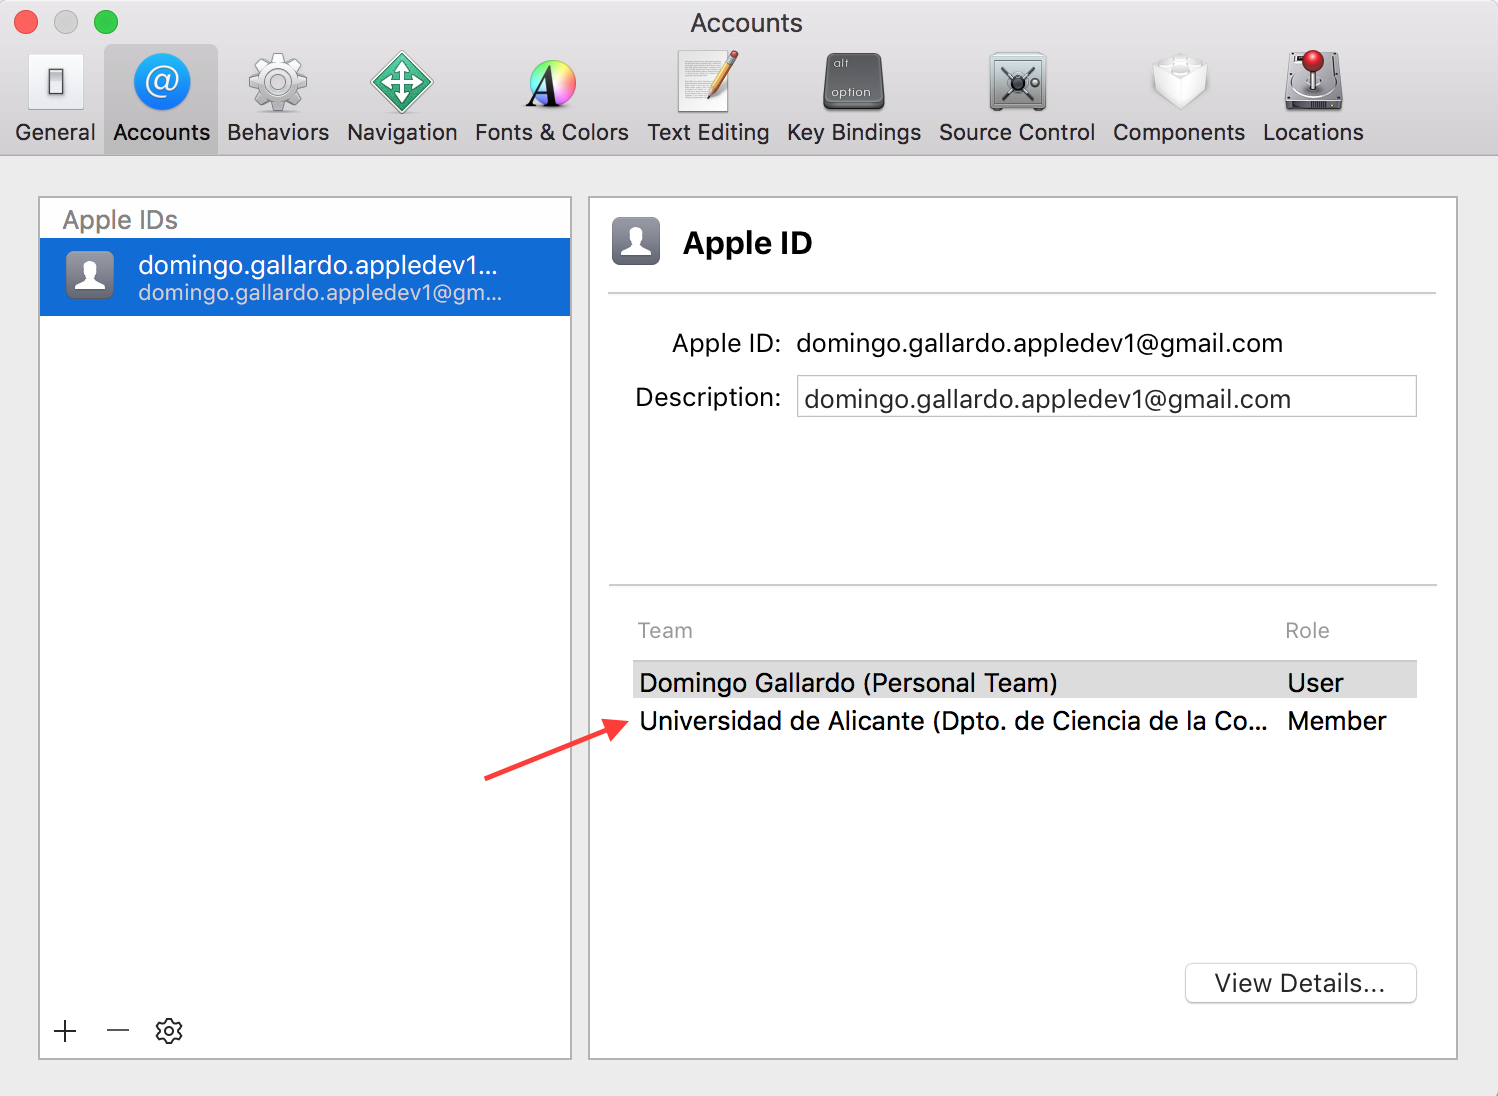
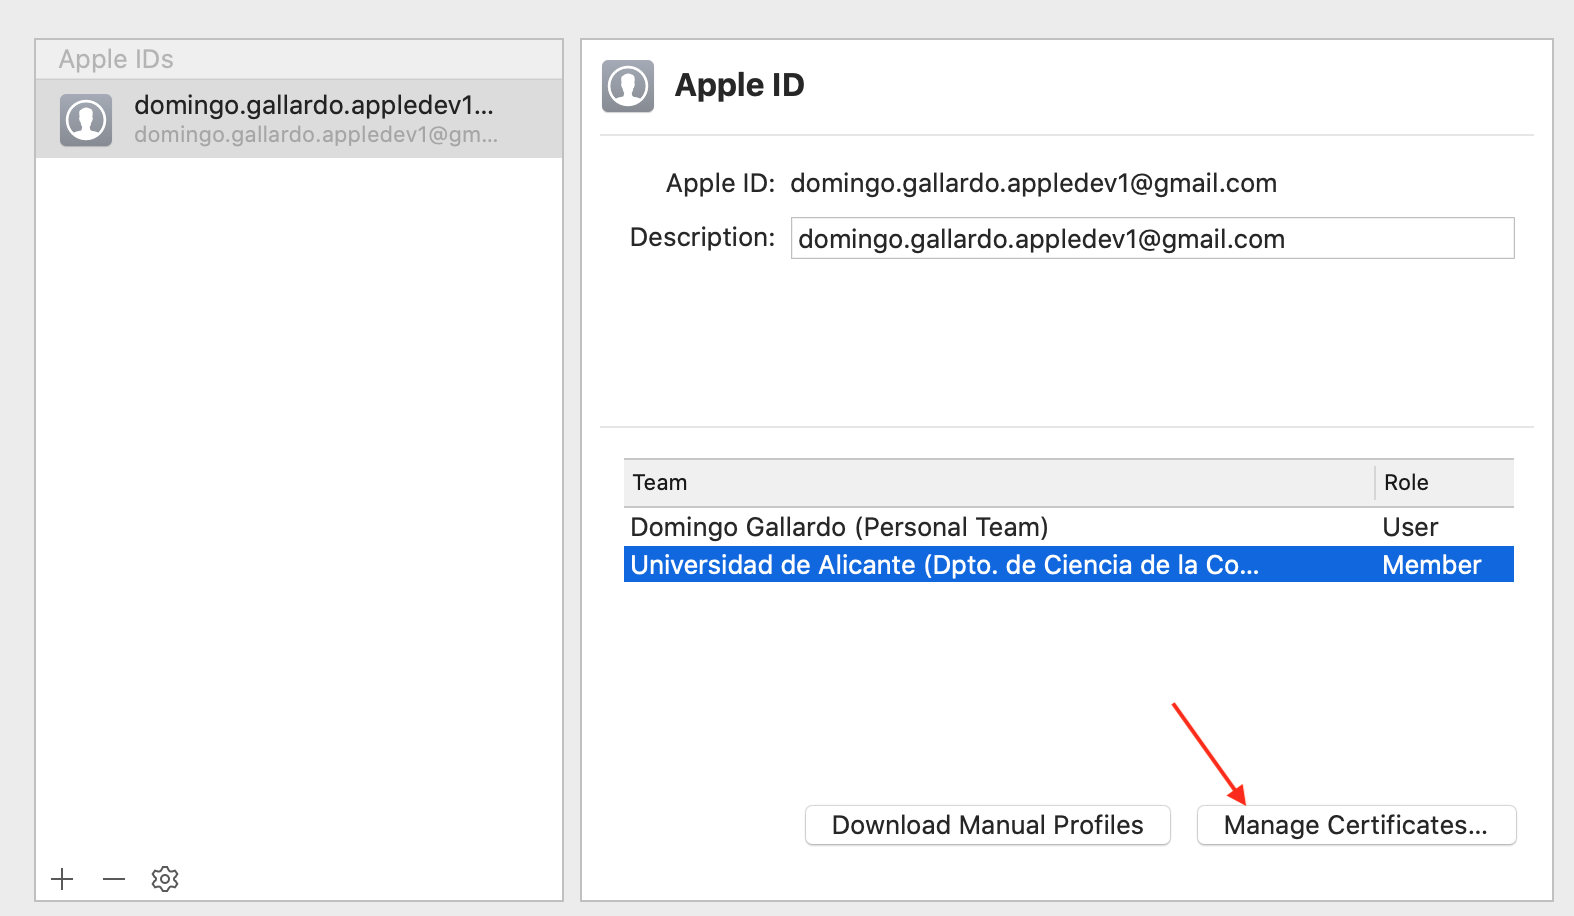
Correcciones

diff --git a/docs/practicas/practica4/practica4-mapas-localizacion.md b/docs/practicas/practica4/practica4-mapas-localizacion.md
@@ -3,13 +3,18 @@ Terminan la práctica en unas 1,5 horas + 1 hora de explicación = 2,5 horas
 -->
 
 
-# Práctica 4: Mapas y localización
+# Práctica 2: Mapas y localización
 
-1. Debes crear la app `es.ua.mastermoviles.Mapas`.
-2. Empieza por definir un _View Controller_ en el que debes incluir un
+1. Lee los siguientes apartados de los [apuntes de teoría](): desde _Aspectos básicos de MapKit_
+   hasta _Uso del delegado_ (incluido).
+
+2. Debes crear la app `es.ua.mastermoviles.Mapas`.
+
+3. Empieza por definir un _View Controller_ en el que debes incluir un
 mapa centrado inicialmente en Alicante. Inclúyelo en un _Navigation Controller_ con la
 opción _Editor > Embed In > Navigation Controller_.
-3. Añade en el centro de la barra del _Navigation Controller_ un
+
+4. Añade en el centro de la barra del _Navigation Controller_ un
 _Segmented Control_ con los valores `Mapa` y `Satélite`, conéctalos
 con el _ViewController_ y haz que el mapa cambie de tipo cuando se
 pulse en el control.
@@ -18,19 +23,23 @@ pulse en el control.
 <img src="imagenes/practica-1.png" width="300px"/>
 </p>
 
+5. Lee los siguientes apartados [apuntes de teoría](): desde
+   _Anotaciones_ hasta _Elementos en el callout_ (incluido).
 
-4. En el _Storyboard_ añade un `Bar Button Item` en la parte derecha de
+6. En el _Storyboard_ añade un `Bar Button Item` en la parte derecha de
 la barra de navegación.
-5. Llámalo `Pin` y enlázalo con una acción en el `ViewController` que
+
+7. Llámalo `Pin` y enlázalo con una acción en el `ViewController` que
   añada una anotación en el mapa.
 
 <p style="text-align:center;">
 <img src="imagenes/practica-2.png" width="300px"/>
 </p>
 
-6. Añade en los _callouts_ imágenes _thumbnails_ predefinidas,
+8. Añade en los _callouts_ imágenes _thumbnails_ predefinidas,
 dependiendo de si el número de pin es par o impar.
-7. Añade en los _callouts_ el botón de información.
+
+9. Añade en los _callouts_ el botón de información.
 
 <p style="text-align:center;">
 <img src="imagenes/practica-3.png" width="300px"/>
@@ -39,7 +48,7 @@ dependiendo de si el número de pin es par o impar.
 
 **Parte opcional 1**
 
-8. Implementa un _segue_ que haga aparecer otra vista con un detalle
+10. Implementa un _segue_ que haga aparecer otra vista con un detalle
   de la foto.
 
 <p style="text-align:center;">
@@ -86,7 +95,10 @@ class ImageDetailViewController: UIViewController {
 
 **Parte opcional 2**
 
-9. Implementa una llamada al servicio de geolocalización que coloque
+11. Lee los siguientes apartados de los [apuntes de teoría](): desde
+    _Geocoding_ hasta _Conversión de placemarks en localizaciones_ (incluido).
+
+12. Implementa una llamada al servicio de geolocalización que coloque
    como subtítulo del Pin el país en el que se ha colocado el
    mismo. 
 
@@ -96,12 +108,13 @@ class ImageDetailViewController: UIViewController {
 
 **Parte opcional 3**
 
+13. Lee el siguiente apartado de los [apuntes de teoría](): _Localización_.
 
-10. Añade el tracking de localización a la aplicación, imprimiendo la
+14. Añade el tracking de localización a la aplicación, imprimiendo la
 localización en la salida estándar cada 10 metros. Comprueba el
 funcionamiento activando la localización en el simulador.
 
-11. Añade la localización al mapa, haciendo que aparezca en la parte
+15. Añade la localización al mapa, haciendo que aparezca en la parte
 izquierda de la barra de navegación el botón de navegación.
 
     - Cuando pulses el botón de navegación se debe mostrar la posición
@@ -120,3 +133,4 @@ izquierda de la barra de navegación el botón de navegación.
 </p>
 
 
+16. Comprime el proyecto y entrégalo en la entrega correspondiente de Moodle.

diff --git a/docs/teoria/tema4-mapas-localizacion/mapas-localizacion.md b/docs/teoria/tema4-mapas-localizacion/mapas-localizacion.md
@@ -23,7 +23,6 @@ incluir datos geográficos en nuestras apps.
 <img style="margin-left: 60px;" src="imagenes/map-tracking-position.png" width="200px"/>
 </p>
 
-### Aspectos básicos de MapKit
 
 Los mapas permiten a los usuarios a visualizar datos geográficos de
 una forma fácil de entender. Por ejemplo, un mapa puede mostrar datos
@@ -77,8 +76,6 @@ let alicanteLocation =  CLLocationCoordinate2D(latitude: 38.3453,
 ```
 
 
-### Otros puntos
-
 Un _punto en el mapa_ se define por los valores `x` e `y` en la
 proyección de Mercator. Se define utilizando la estructura
 [`MKMapPoint`](https://developer.apple.com/library/ios/documentation/MapKit/Reference/MapKitDataTypesReference/index.html#//apple_ref/c/tdef/MKMapPoint). Se
@@ -100,23 +97,20 @@ enlace](https://developer.apple.com/library/ios/documentation/GraphicsImaging/Re
 Para almacenar los datos en ficheros es preferible usar coordenadas
 de mapas.
 
-### Permisos para activar los mapas en nuestra app
+### Añadir un mapa en nuestra app
 
 Para poder distribuir apps que trabajen con el servicio de mapas es
 necesario activar en la app el _entitlement_ correspondiente,
-activando los servicios que necesitamos.
-
-Debemos tener un perfil de aprovisionamiento aprobado con un App ID
-que soporte estos servicios.
-
-No es necesario para el desarrollo y las pruebas.
+activando los servicios que necesitamos. Debemos tener un perfil de
+aprovisionamiento aprobado con un App ID que soporte estos servicios.
 
 <p style="text-align:center;">
 <img style="margin-left:50px" src="imagenes/map-entitlements.png" width="500px">
 </p>
 
-
-### Añadir un mapa en nuestra app
+No es necesario para el desarrollo y para las pruebas en el
+simulador. No utilizaremos por tanto ningún perfil de
+aprovisionamiento especial para la práctica.
 
 La clase
 [`MKMapView`](https://developer.apple.com/reference/mapkit/mkmapview)
@@ -268,6 +262,9 @@ enum TipoMapa: Int {
 
 ### Uso del delegado
 
+Hemos visto que Lo más sencillo es definir como delegado el _view
+controller_ en el que se incluye el mapa.
+
 El objeto delegado puede implementar las funciones del protocolo
 [`MKMapViewDelegate`](https://developer.apple.com/library/ios/documentation/MapKit/Reference/MKMapViewDelegate_Protocol/index.html#//apple_ref/occ/intf/MKMapViewDelegate)
 donde recibe los eventos relacionados con el mapa:
@@ -276,9 +273,6 @@ donde recibe los eventos relacionados con el mapa:
 - La carga de zonas del mapa de la red.
 - Cambios en la localización del usuario.
 - Cambios asociados con anotaciones y overlys.
-
-Lo más sencillo es definir como delegado el _view controller_ en el
-que se incluye el mapa.
 
 Por ejemplo:
 

diff --git a/docs/teoria/tema1-firma-aprovisionamiento/firma-aprovisionamiento.md b/docs/teoria/tema1-firma-aprovisionamiento/firma-aprovisionamiento.md
@@ -835,8 +835,9 @@ Es necesario crear un nuevo certificado para el desarrollador,
 distinto del certificado individual. Servirá para firmar aplicaciones
 desarrolladas en el equipo en el que se ha añadido al desarrollador.
 
-Se puede hacer desde el _portal del desarrollador_ o desde Xcode. Será un
-certificado de tipo **iOS App Development**.
+Se puede hacer desde Xcode, seleccionando el equipo _Universidad de
+Alicante_ y la opción _Manage Certificates..._. Será un certificado de
+tipo **iOS App Development**.
 
 <img src="imagenes/xcode-pref-team-develop.png" width="450px"/> 
 
